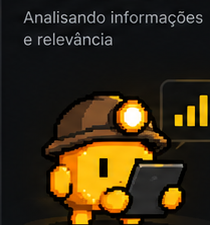
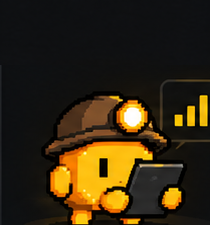
feat: animate mascot and remove image captions

Changed region(s): [[0.1143, 0.0311, 0.9714, 0.2178], [0.0, 0.0311, 0.0286, 0.0933], [0.0, 0.2178, 0.0286, 0.2489]]

diff --git a/app/globals.css b/app/globals.css
@@ -72,7 +72,14 @@ svg{width:20px;height:20px}
   background:radial-gradient(circle,rgba(246,197,21,.17),transparent 60%),linear-gradient(180deg,#101213,#0d0f11);
   overflow:hidden
 }
-.heroGlow img{height:165px;width:165px;object-fit:cover;border-radius:18px}
+.heroGlow img{height:165px;width:165px;object-fit:cover;border-radius:18px;animation:pepitaWalk .8s steps(2,end) infinite;transform-origin:50% 88%;will-change:transform}
+@keyframes pepitaWalk{
+  0%,100%{transform:translate3d(0,0,0) rotate(0)}
+  25%{transform:translate3d(-3px,-3px,0) rotate(-1.5deg)}
+  50%{transform:translate3d(0,0,0) rotate(0)}
+  75%{transform:translate3d(3px,-3px,0) rotate(1.5deg)}
+}
+@media(prefers-reduced-motion:reduce){.heroGlow img{animation:none}}
 .eyebrow{margin:0 0 6px;color:var(--gold);font-size:10px;font-weight:850;letter-spacing:.16em}
 .welcome h1{font-size:36px;line-height:1.1;margin:0 0 10px;letter-spacing:-.035em}
 .welcome h1 span{color:var(--gold)}
